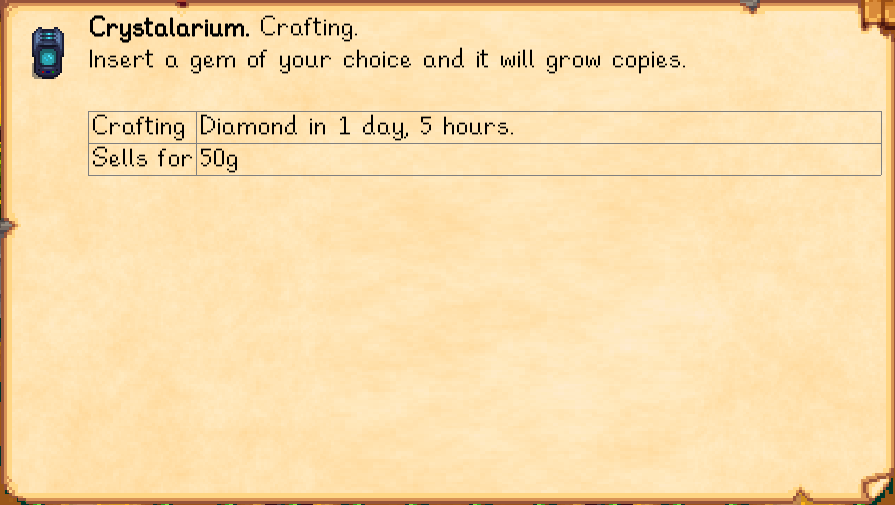
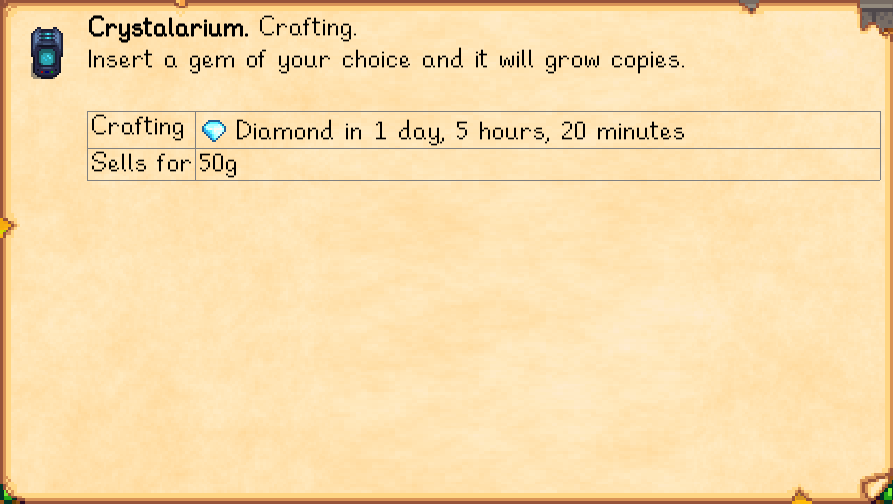
update readme

diff --git a/README.md b/README.md
@@ -53,7 +53,7 @@ file if you want. These are the available settings:
 | `HideOnKeyUp`     | Default `false`. If enabled, the lookup window will be shown while you hold `F1` and disappear when you release it.
 
 ## Versions
-1.0
+1.0:
 * Initial version.
 * Added support for NPCs (villagers, pets, farm animals, monsters, and players), items (crops and
    inventory), and map objects (crafting objects, fences, trees, and mine objects).
@@ -62,7 +62,7 @@ file if you want. These are the available settings:
 * Added version check on load.
 * Let players lookup a target from any visible part of its sprite.
 
-1.1
+1.1:
 * On item lookup:
   * removed crafting recipe;
   * added crafting, cooking, and furnace recipes which use this item as an ingredient.
@@ -77,6 +77,11 @@ file if you want. These are the available settings:
   * fixed an error when displaying certain recipes.
 * Added optional mode which hides the lookup UI when you release the button.
 * `F1` now toggles the lookup UI (i.e. will close the lookup if it's already open).
+
+1.3:
+* Added item icon to crafting result and farm animal produce fields.
+* Fixed wrong gift taste shown if there's a conflict between universal tastes (e.g. everyone likes Kale) and personal tastes (e.g. Abigail dislikes Kale).
+* Internal refactoring.
 
 ## Compiling the mod
 [Installing a stable release from Nexus Mods](http://www.nexusmods.com/stardewvalley/mods/541/) is
